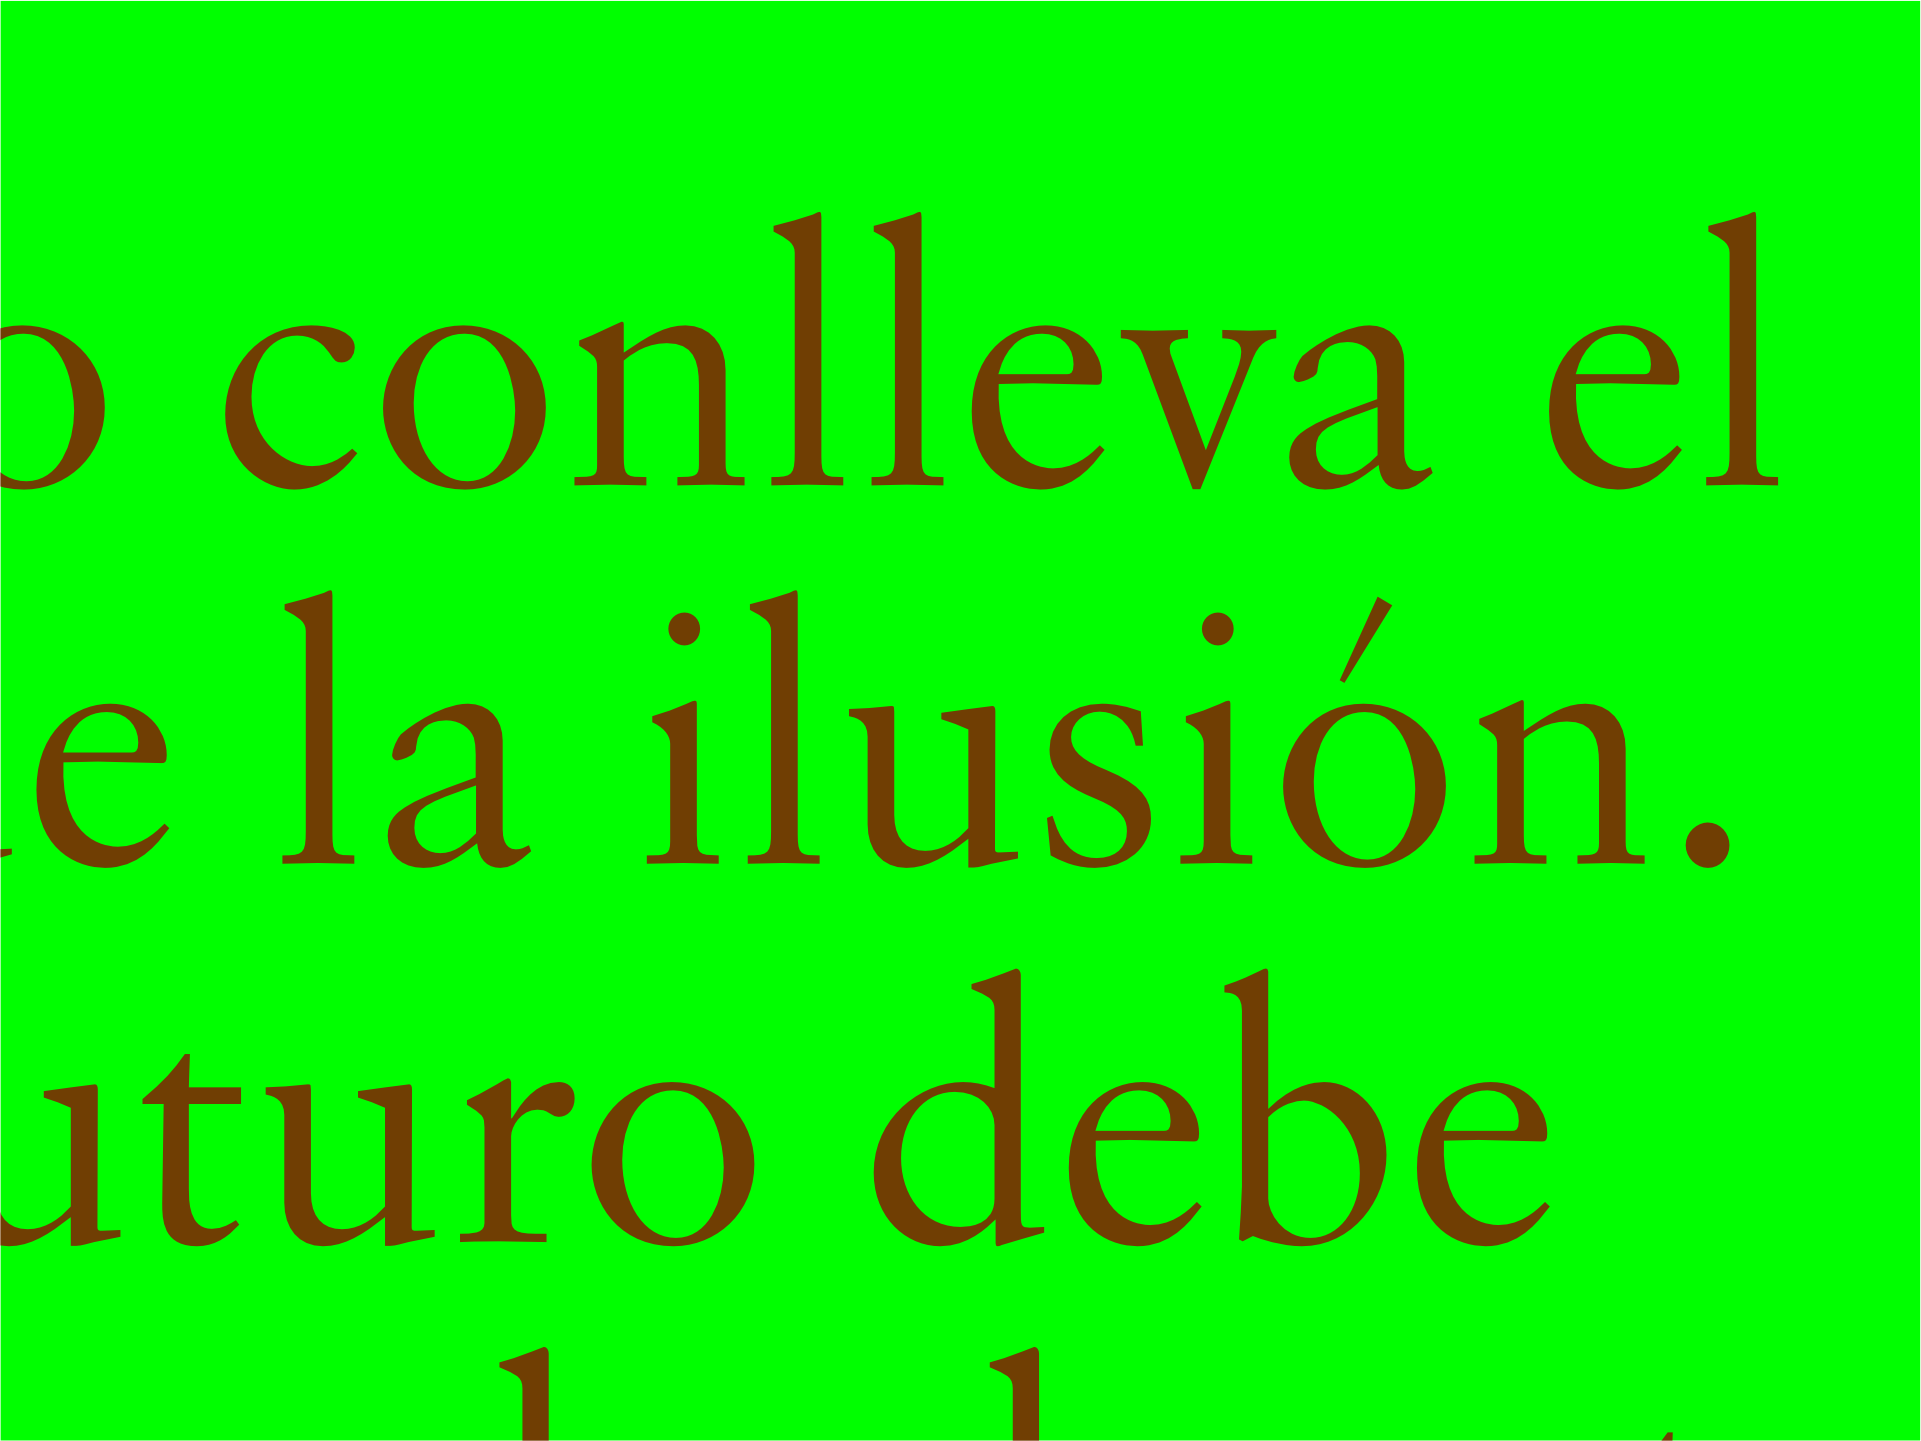
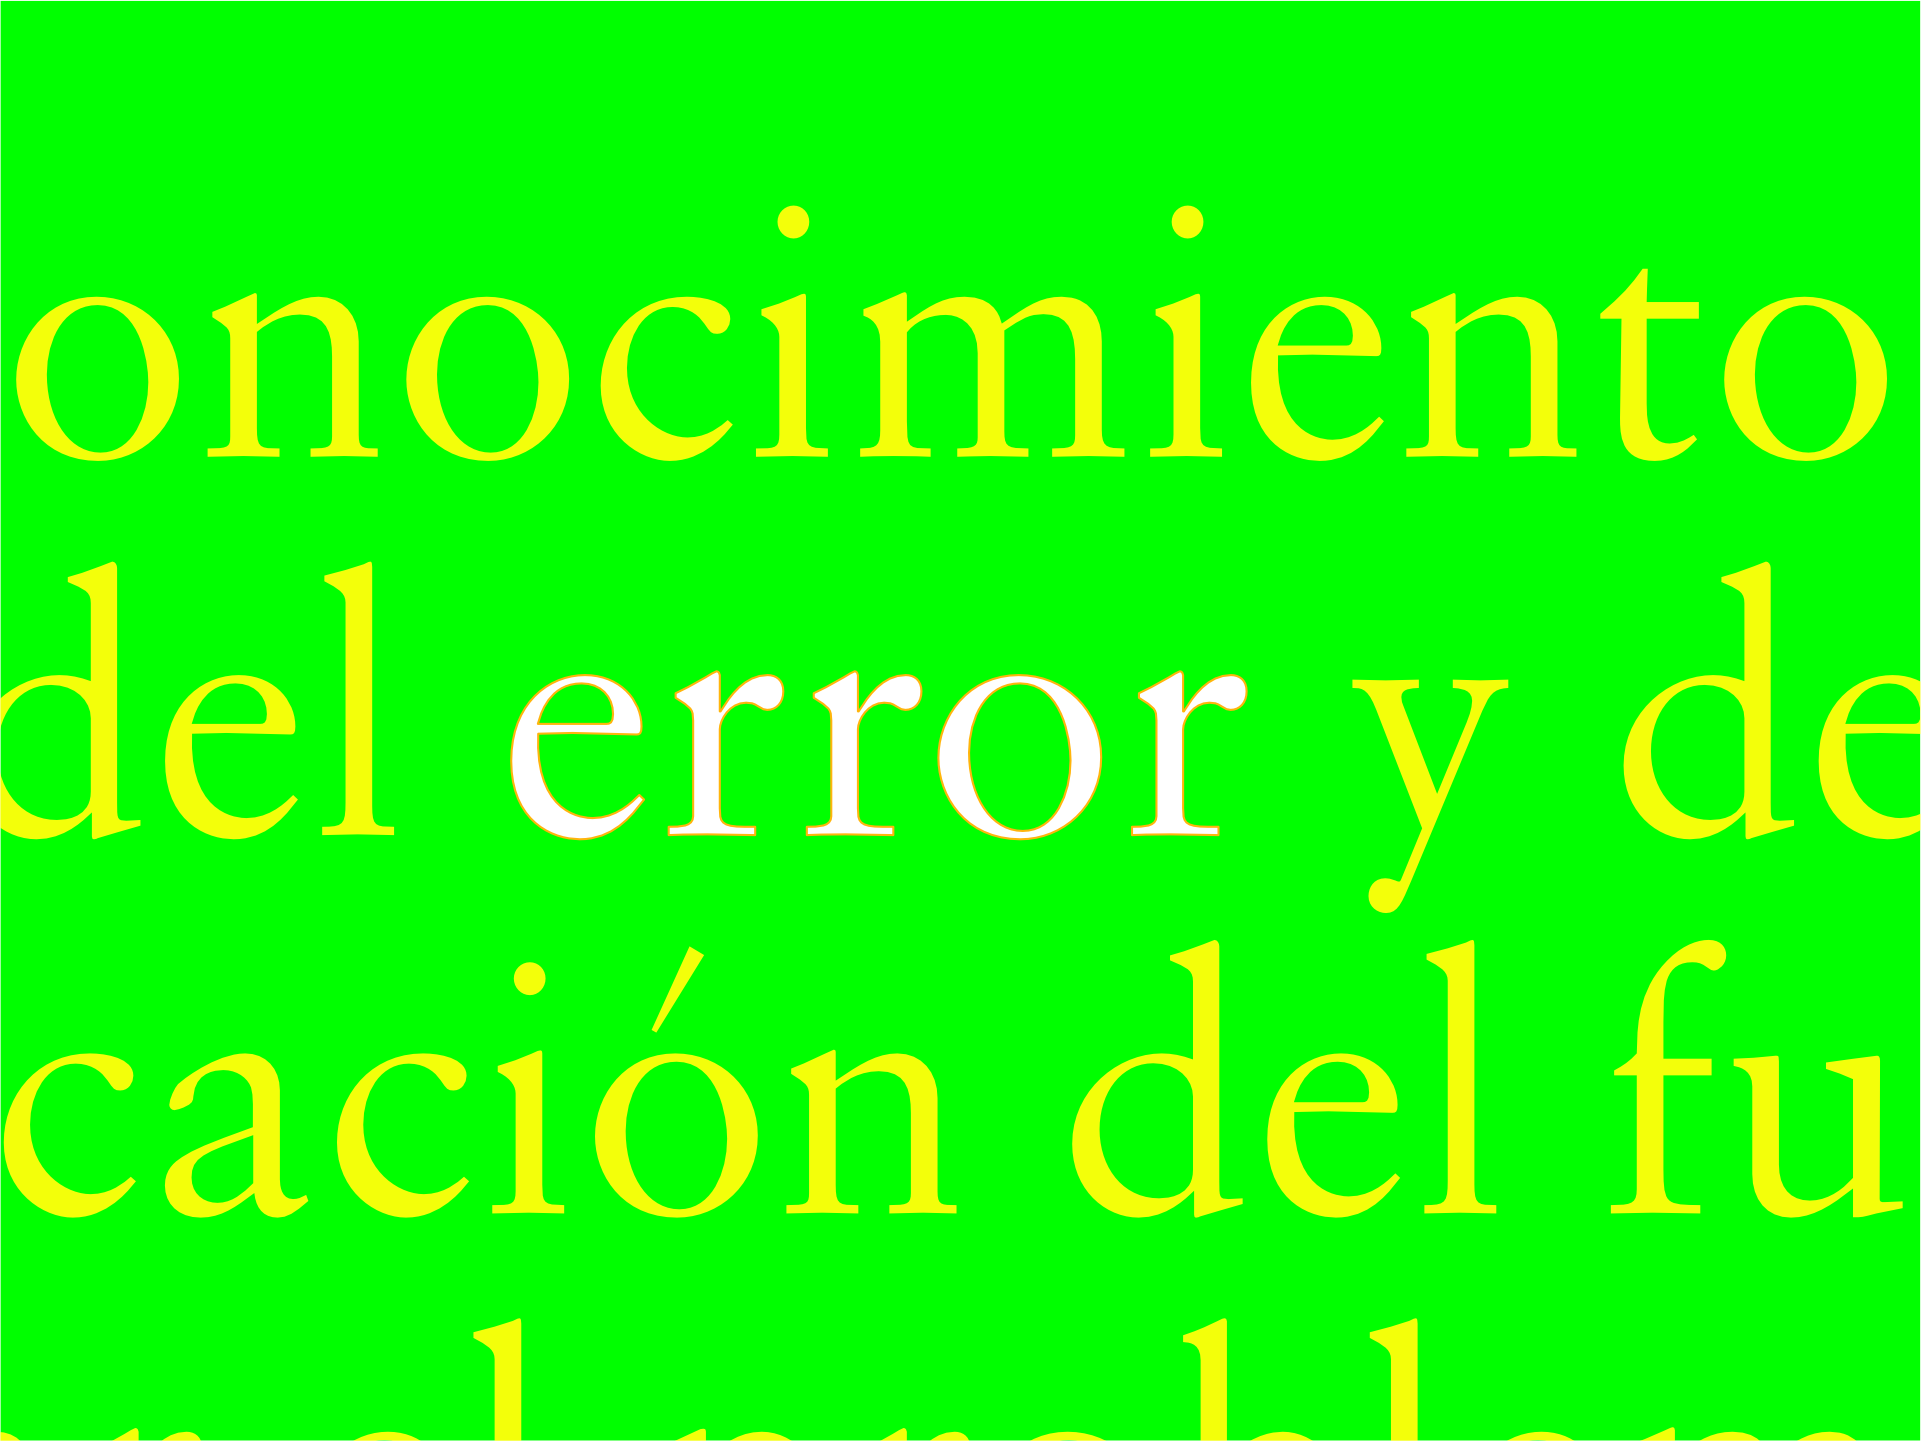
changes

diff --git a/public/rafapuyana/js/complejidad.js b/public/rafapuyana/js/complejidad.js
@@ -1,4 +1,58 @@
-// complejidad.js
+// contradicciones.js
 
-querido1 = () => osc().out();
+// SETUP
 
+// Habitar()
+// la_complejidad()
+// //
+// Los_7_saberes()
+// necesarios()
+// para_la_educación()
+// //del futuro
+
+Habitar = () => setFunction({name: 'chroma',type: 'color',inputs: [],glsl:`float maxrb = max( _c0.r, _c0.b );float k = clamp( (_c0.g-maxrb)*5.0, 0.0, 1.0 );float dg = _c0.g; _c0.g = min( _c0.g, maxrb*0.8 ); _c0 += vec4(dg - _c0.g);return vec4(_c0.rgb, 1.0 - k);
+	`});
+
+la_complejidad = () => setResolution(1440,900);
+
+// TITULO
+Los_7 = () =>
+  src(s1)
+  //.scale(1,.4)
+  .chroma().out(o1);
+
+saberes = () =>
+  src(s3)
+  //.scale(1,.4)
+  .chroma().out(o3);
+
+necesarios = () => src(s2).scale(1,1).chroma().out(o2);
+
+// PARA LA EDUCACION
+para_la_educación = () =>
+src(o0)
+  .layer(solid(1,.71,.047)) // Comms 1st
+  .layer(src(o1).scrollX(0,1e-2)) // Comms 2snd ( swith o1/o2/o3)
+  //.layer(solid(1,.18,0).brightness([0,1].smooth()).mask(src(o3).scrollX(0,1/100).scrollY(0,1/100)))
+  //.layer(src(o3).chroma())
+  //.layer(osc(1,1,1).mask(shape()))
+  //.layer(osc(1,1,1).mask(src(o3).chroma()))
+  //.layer(solid(1,.18,0).brightness([0,1].smooth()).mask(src(o3).scrollX(0,1/100).scrollY(0,1/100)))
+  .scale(1+1e-3)
+  .rotate(0-1e-3)
+.out(o0)
+
+// ERROR
+el_error = () =>
+src(o0)
+//.layer(solid(1,.71,.047)) // Solido - comenta para inicio
+.layer(src(o1).scrollX(0,1e-2).modulate(osc(10/2,.1,2),0)) // primer texto ( cambia o1,o2,o3 ) // modulate cambia
+//
+//  .layer(osc(1,1,.21).kaleid().mask(shape(30,[.2,.1,.4,.3],.0))) // circulo
+//.layer(solid(1,.18,0).brightness([1,2].smooth()).mask(src(o1).invert([1]).scrollX(0,1/100).scrollY(0,1/100)))
+  .scale(1+1e-3) // e-3 / e-2
+  .rotate(0+1e-3) //  0+1e-3 / 0+1e-4
+//  .rotate(0+1e-3) //  rotacion adicional
+//.blend(o0,.9)
+//.modulate(o0,.001)
+.out(o0);

diff --git a/public/rafapuyana/js/rafapuyana.js b/public/rafapuyana/js/rafapuyana.js
@@ -16,9 +16,9 @@ window.addEventListener('DOMContentLoaded', function() {
             if (typeof s0 !== 'undefined' && typeof s1 !== 'undefined' && typeof s2 !== 'undefined' && typeof s3 !== 'undefined') {
                 // Precargar imagenes
                 s0.initImage("./public/rafapuyana/images/body.png"); // Cuerpo humano para virtud
-                s1.initImage("./public/rafapuyana/images/morin.png");
-                s2.initImage("./public/rafapuyana/images/body.png");
-                s3.initImage("./public/rafapuyana/images/body.png");
+                s1.initImage("./public/rafapuyana/images/complejidad/complejidad-01.png");
+                s2.initImage("./public/rafapuyana/images/complejidad/complejidad-02.png");
+                s3.initImage("./public/rafapuyana/images/complejidad/complejidad-03.png");
                 console.log("Imágenes precargadas correctamente");
             } else {
                 console.error("Alguno de los buffers (s0, s1, s2, s3) no está definido");
